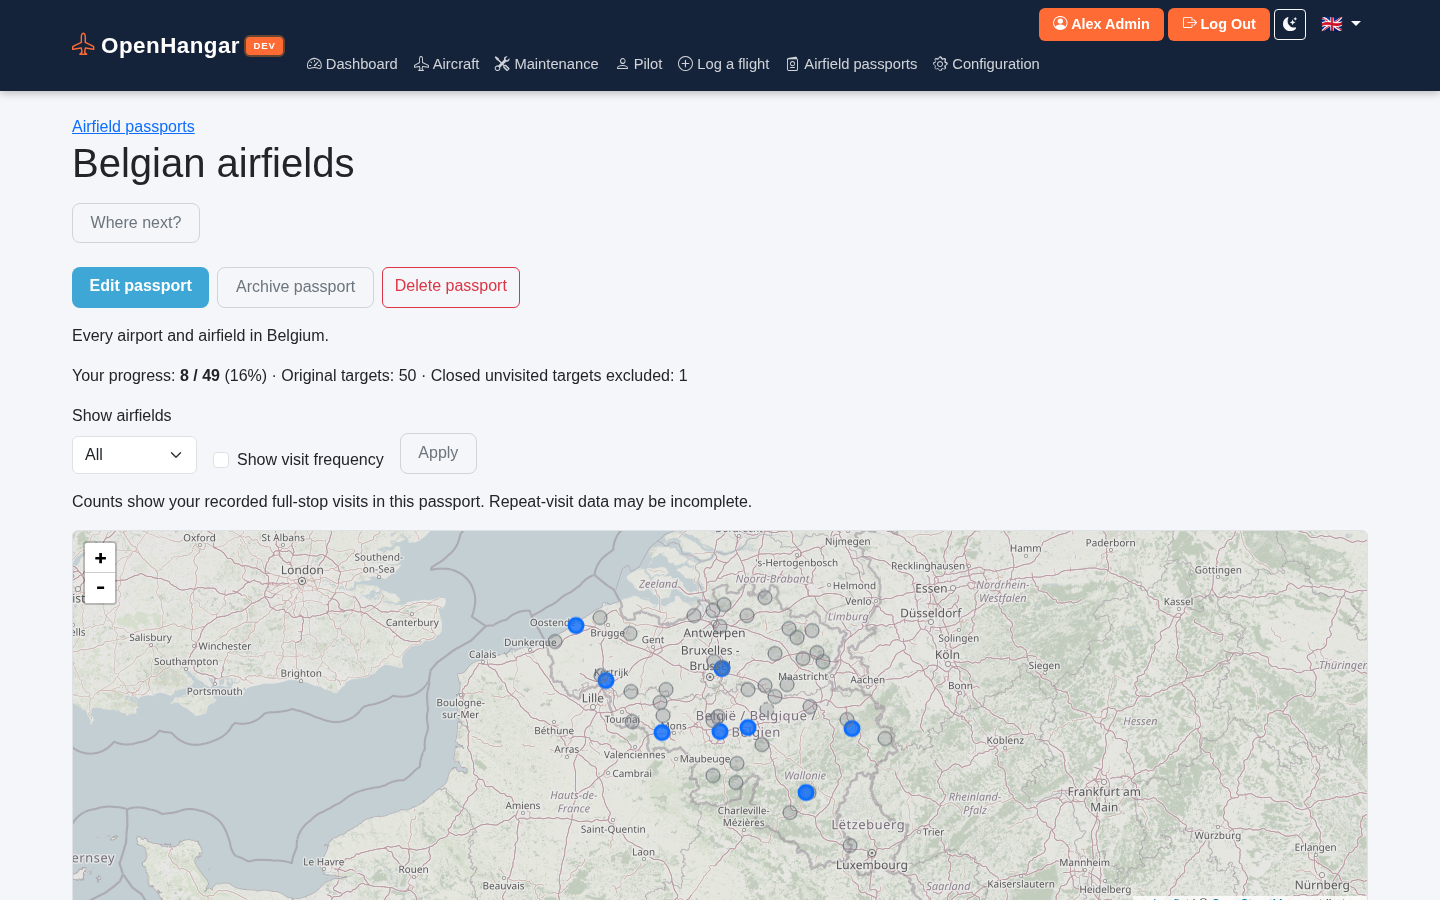
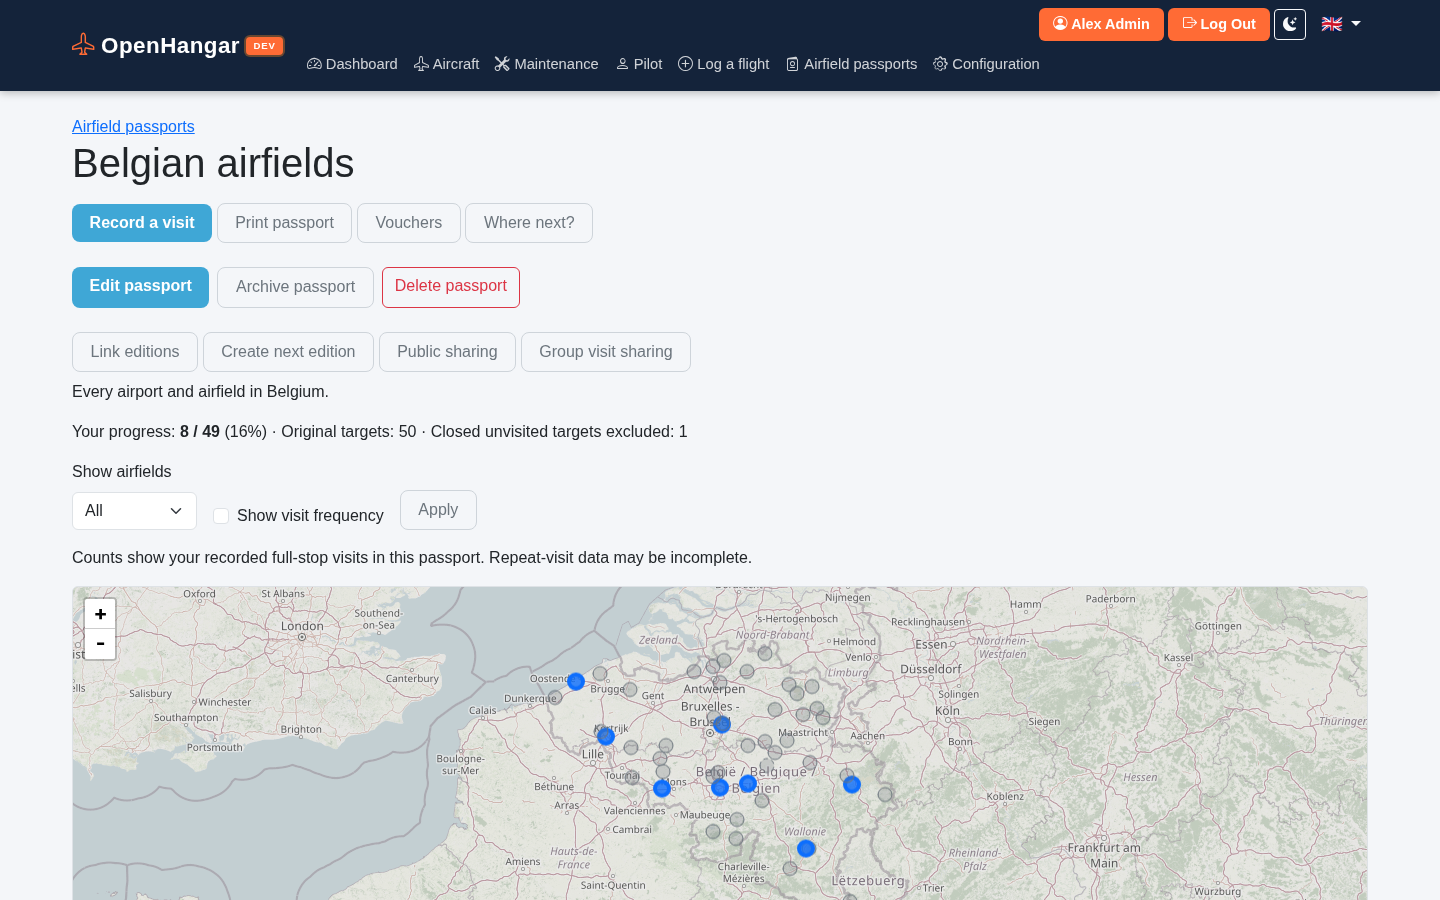
docs(passports): show a group passport and the record-visit form
The user guide had no picture of a group passport or of the new quick
visit form. The screenshot manifest gains a passport-only friend profile
(from the dev seed's "Flying friends" group) and two shots: the group
map with own, friends' and unvisited airfields, and Record a visit. The
two existing passport screenshots are refreshed from the same seed.

diff --git a/docs/user-guide.md b/docs/user-guide.md
@@ -248,14 +248,16 @@ and edits are checked live. Arrivals are assumed full-stop: open an airfield to
 exclude a touch-and-go or low approach. You can also record a dated manual visit,
 optionally linked to your own flight, and upload a private stamp photo. On a
 phone, **Record a visit** on the passport page is the quickest way: choose the
-airfield and date, add a note if you like, and save. Photos do
-not earn credit. On a group passport you can share a photo with the edition's
-other participants (**Share with this group**) and stop sharing at any time;
-uploading a new photo makes it private again. The default map gives every visited field equal weight; **Show
-visit frequency** sizes markers by recorded visit counts. Closed unvisited fields
-remain visible but are excluded from the achievable total.
+airfield and date, add a note if you like, and save. Photos do not earn credit.
+On a group passport you can share a photo with the edition's other participants
+(**Share with this group**) and stop sharing at any time; uploading a new photo
+makes it private again. The default map gives every visited field equal weight;
+**Show visit frequency** sizes markers by recorded visit counts. Closed
+unvisited fields remain visible but are excluded from the achievable total.
 
 ![Airfield passport progress map](screenshots/passport_detail.png)
+
+![Record a visit — the quick form for a phone](screenshots/passport_record_visit.png)
 
 Use **Where next?** to find open unvisited fields within a distance or still-air
 time limit. You can save a home airfield on your pilot profile and a home/cruise
@@ -285,6 +287,8 @@ everyone, and a leaderboard of each participant's coverage, all measured against
 the same airfields (open ones, plus closed ones someone visited). Use **Show
 airfields** and **Visited by participant** to narrow the map and list; your own
 progress and marker styles stay yours. See [the passport guide](airfield_passports.md#group-progress-and-filters).
+
+![A group passport as a passport-only friend sees it: own visits, friends' visits and unvisited airfields](screenshots/passport_group.png)
 
 A friend without an account selects **Create an account and join this passport**,
 chooses a password and verifies the code sent to their email. They then complete

diff --git a/docs/implementation_plan.md b/docs/implementation_plan.md
@@ -2843,10 +2843,14 @@ downgrades and show localised retrieval timestamps.
   *Audit 2026-11-21:* covered, including marker weighting and the busy-base cap
   (browser test), separate same-day arrivals and toggle invariance
   (`test_passport_frequency_counts.py`). Open for public privacy (41h).
-- [ ] Browser tests: builder preview/confirmation, map/list agreement, manual stamp,
+- [x] Browser tests: builder preview/confirmation, map/list agreement, manual stamp,
   HTMX away/back, narrow-screen invitation enrolment and visit submission, filters and exports. Exercise
   keyboard/no-JS fallbacks and visible failure states. Add representative screenshots
   to the screenshot manifest and user guide.
+  *Done:* the passport browser suite covers these flows, including mobile,
+  no-JavaScript and public views (41h). The screenshot manifest adds the group
+  passport seen by a passport-only friend and the record-visit form, both shown
+  in the user guide.
 - [ ] Run sanctioned i18n extraction/update, fill all fr/nl strings, compile and
   validate completeness; review French typography and ngettext singulars. Update
   user guide, data/import provenance documentation and release notes per increment.

diff --git a/docs/release-notes/next.md b/docs/release-notes/next.md
@@ -85,6 +85,9 @@ access immediately, including photo requests.
 - Public links use shared storage and revocable, expiring tokens. Existing visits
   and photos remain private until their participants choose to publish them.
 
+- The user guide shows a group passport as a passport-only friend sees it, and
+  the new **Record a visit** form.
+
 - The demo and development data now include a group passport shared by two
   pilots and a friend with a passport-only account, to try the group features.
 
